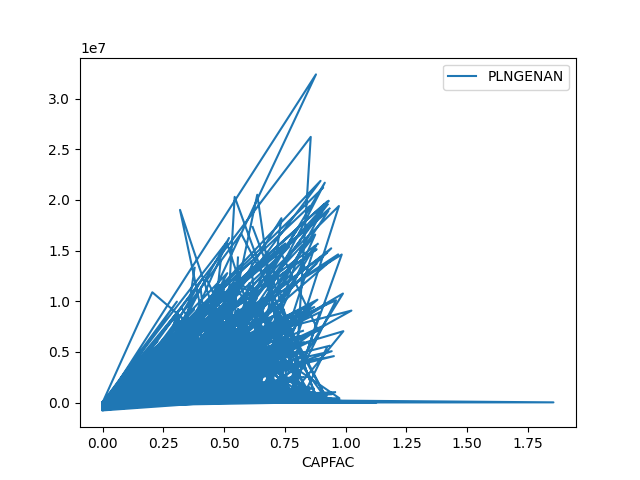
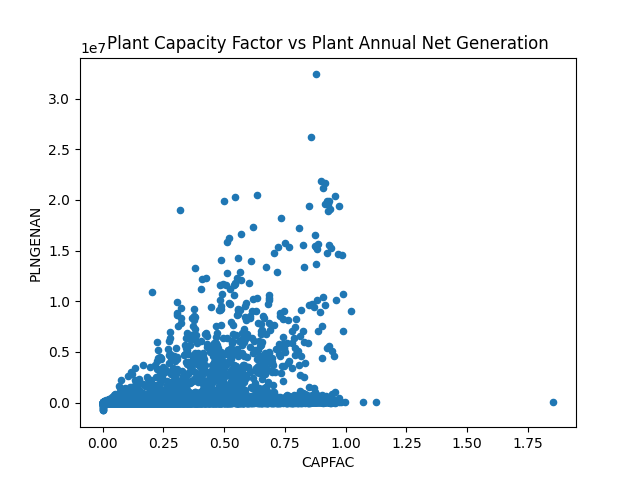
"modified"

diff --git a/summary_statistics.html b/summary_statistics.html
@@ -58,5 +58,3 @@
     </tr>
   </tbody>
 </table>
-
-<img src='plant_capacity_factor.png'/ alt="Plant capacity factor vs Plant annual net generation">

diff --git a/main.py b/main.py
@@ -12,6 +12,6 @@ def describe_file(input1):
 def plot_file(input1):
     """define a function plot relationship in a dataframe"""
     df1 = pd.read_csv(input1)
-    df1.plot(x='CAPFAC', y='PLNGENAN', kind=‘scatter’)
+    df1.plot(x='CAPFAC', y='PLNGENAN', kind='scatter', title="Plant Capacity Factor vs Plant Annual Net Generation")
     # Save the plot as a figure
     plt.savefig('plant_capacity_factor.png')
